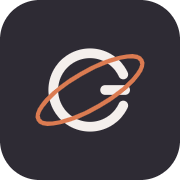
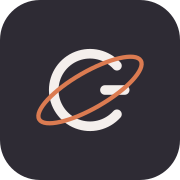
Open the G's counters, which were sealed to under a pixel (#23)
The mark has been reading as a C, and it is not a rendering artefact — the
drawing is wrong. The arc runs from ±25.1° with a 9-unit round cap on each
end, and measuring what that leaves between the cap and the crossbar:

    upper arc end, incl. round cap   reaches y = 54.6
    crossbar top edge                sits at  y = 55.5
    clear counter                    0.92px   — in a 120-unit box

Both counters are sealed to under a pixel, so at every size anyone actually
sees — favicon, header, loading mark, og image — the right-hand side fills in
solid and the crossbar disappears into it. No amount of lighting fixes that;
there is no aperture to light.

At ±42° the counter opens to 9.25px. Nothing else moves: same centre (60,60),
same radius 34, same stroke weight, same crossbar, same silhouette, same
ring. The arc is 17° shorter at each end and that is the entire change.

Brand.tsx says the geometry is transcribed and must not be eyeballed. That is
the right rule and it stands — this is the case it did not anticipate, where
the transcription itself is faithful to a source that is broken. The banner
now above Mark records the measurement, the new path and the old one, and
says that any future revision has to happen everywhere at once.

Changed in the same sweep across gen-website, internals-tm, gen-portal,
business-os and the promo film: 17 occurrences in 15 files, both .svg files,
and the two raster icons regenerated.
[…]

diff --git a/src/components/Brand.tsx b/src/components/Brand.tsx
@@ -1,3 +1,35 @@
+/**
+ * ══════════════════════════════════════════════════════════════════════════
+ * THE G'S ARC WAS OPENED FROM ±25.1° TO ±42° ON 2026-09-26, AND THE OLD
+ * GEOMETRY WAS MEASURABLY BROKEN.
+ *
+ * The arc used to run from ±25.1° with a 9-unit round cap on each end.
+ * Measure what that leaves between the cap and the crossbar:
+ *
+ *     upper arc end, incl. round cap   reaches y = 54.6
+ *     crossbar top edge                sits at  y = 55.5
+ *     clear counter                    0.92px   — in a 120-unit box
+ *
+ * Both of the G's counters were sealed to under a pixel, so at every size
+ * anyone actually saw — favicon, header, loading mark, the og image — the
+ * right-hand side filled in solid and the mark read as a C with a nub. It
+ * was not a rendering artefact and no amount of lighting fixed it: there
+ * was no aperture to light.
+ *
+ * At ±42° the counter opens to 9.25px and the crossbar reads as a crossbar.
+ * Nothing else moved: same centre (60,60), same radius 34, same stroke
+ * weight, same crossbar, same silhouette, same ring. The arc is 17° shorter
+ * at each end and that is the entire change.
+ *
+ * ⚠ IT IS CHANGED IN ALL FIVE PLACES AT ONCE — gen-website, internals-tm,
+ * gen-portal, business-os and the promo film — plus both .svg files and the
+ * raster icons regenerated from them. The mark existing in two shapes is
+ * worse than either shape. If this is ever revised again, revise it
+ * everywhere in the same change.
+ *
+ * The old path, for the record:  M90.8 45.6 A34 34 0 1 0 90.8 74.4
+ * ══════════════════════════════════════════════════════════════════════════
+ */
 import { useId } from "react";
 
 import styles from "./Brand.module.css";
@@ -5,8 +37,9 @@ import styles from "./Brand.module.css";
 /**
  * Brand marks — Orbit G and the wordmark.
  *
- * Geometry is transcribed exactly from 06-brand/logo/svg/. Do not eyeball
- * adjustments; re-export from the design canvas (06-brand/source/) instead.
+ * Geometry is transcribed exactly from 06-brand/logo/svg/, WITH ONE
+ * DELIBERATE CORRECTION — see the banner above Mark. Do not eyeball any
+ * other adjustment; re-export from the design canvas (06-brand/source/).
  *
  * The wordmark is drawn as inline SVG rather than loaded as <img> for two
  * reasons: the <text> nodes need the page's Jost webfont to render correctly,
@@ -113,7 +146,7 @@ export function Mark({ size = 40, className, still }: MarkProps) {
       />
 
       <path
-        d="M90.8 45.6 A34 34 0 1 0 90.8 74.4"
+        d="M85.27 37.25 A34 34 0 1 0 85.27 82.75"
         fill="none"
         stroke={`url(#g-${uid})`}
         strokeWidth="9"
@@ -179,7 +212,7 @@ export function Wordmark({
     >
       <g transform="translate(8,26)">
         <path
-          d="M90.8 45.6 A34 34 0 1 0 90.8 74.4"
+          d="M85.27 37.25 A34 34 0 1 0 85.27 82.75"
           fill="none"
           stroke="var(--mark-g, #8B5A48)"
           strokeWidth="9"

diff --git a/src/components/LoadingMark.tsx b/src/components/LoadingMark.tsx
@@ -44,7 +44,7 @@ export function LoadingMark({ size = 28, label = "Loading", className }: Props) 
         {/* Planet — the G. Holds still; it is the thing being orbited. */}
         <g className={styles.planet}>
           <path
-            d="M90.8 45.6 A34 34 0 1 0 90.8 74.4"
+            d="M85.27 37.25 A34 34 0 1 0 85.27 82.75"
             fill="none"
             stroke="var(--mark-g, #8B5A48)"
             strokeWidth="9"
